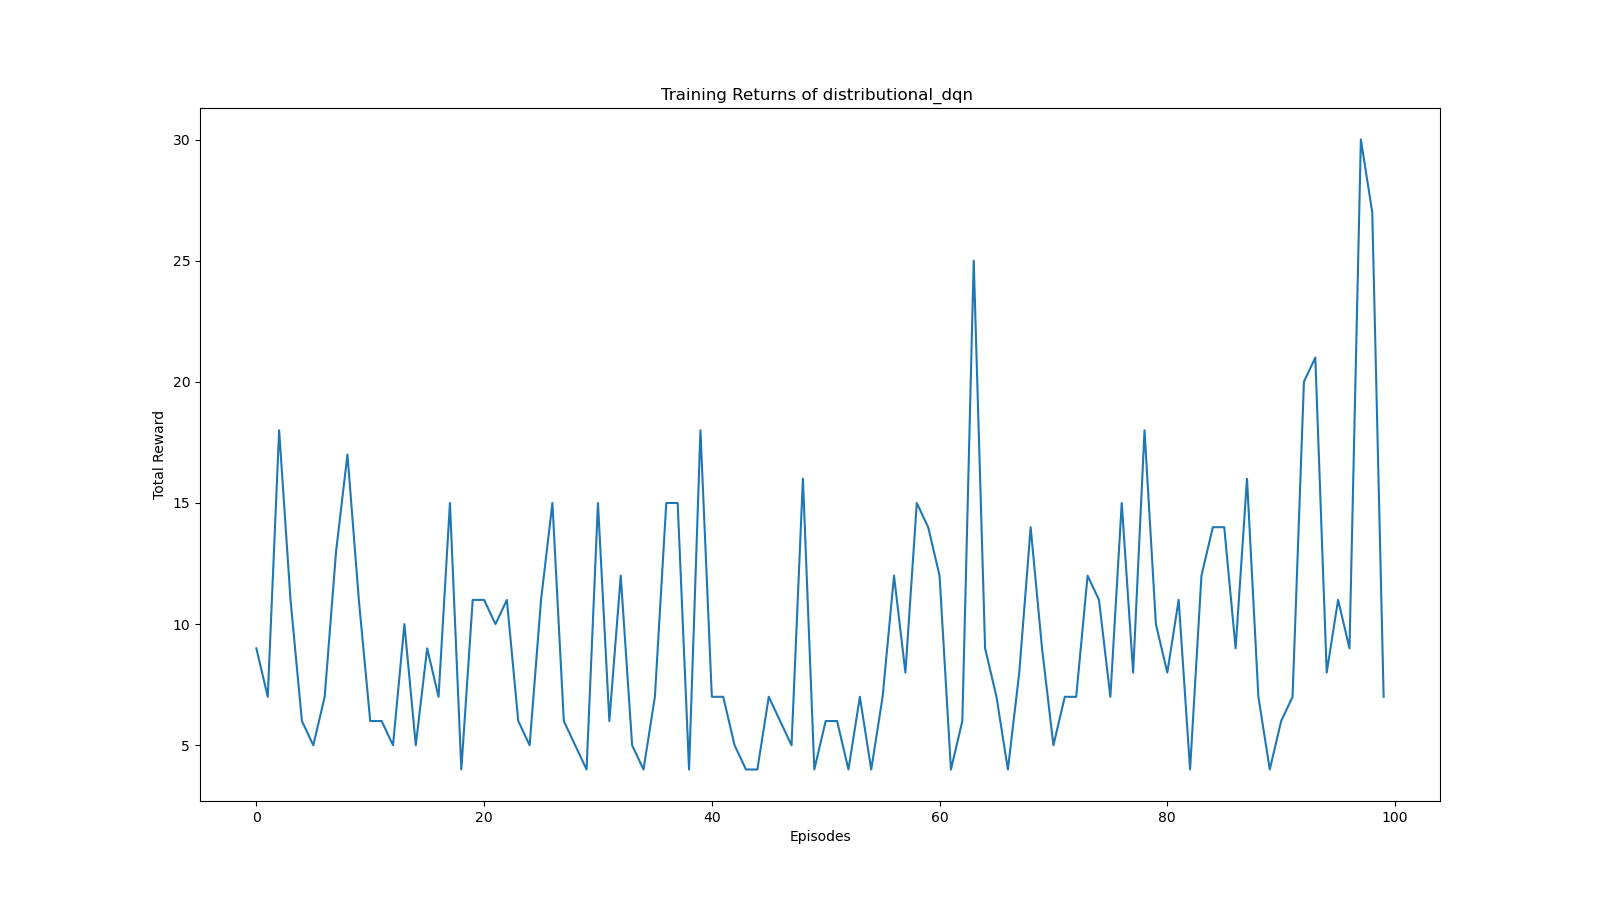
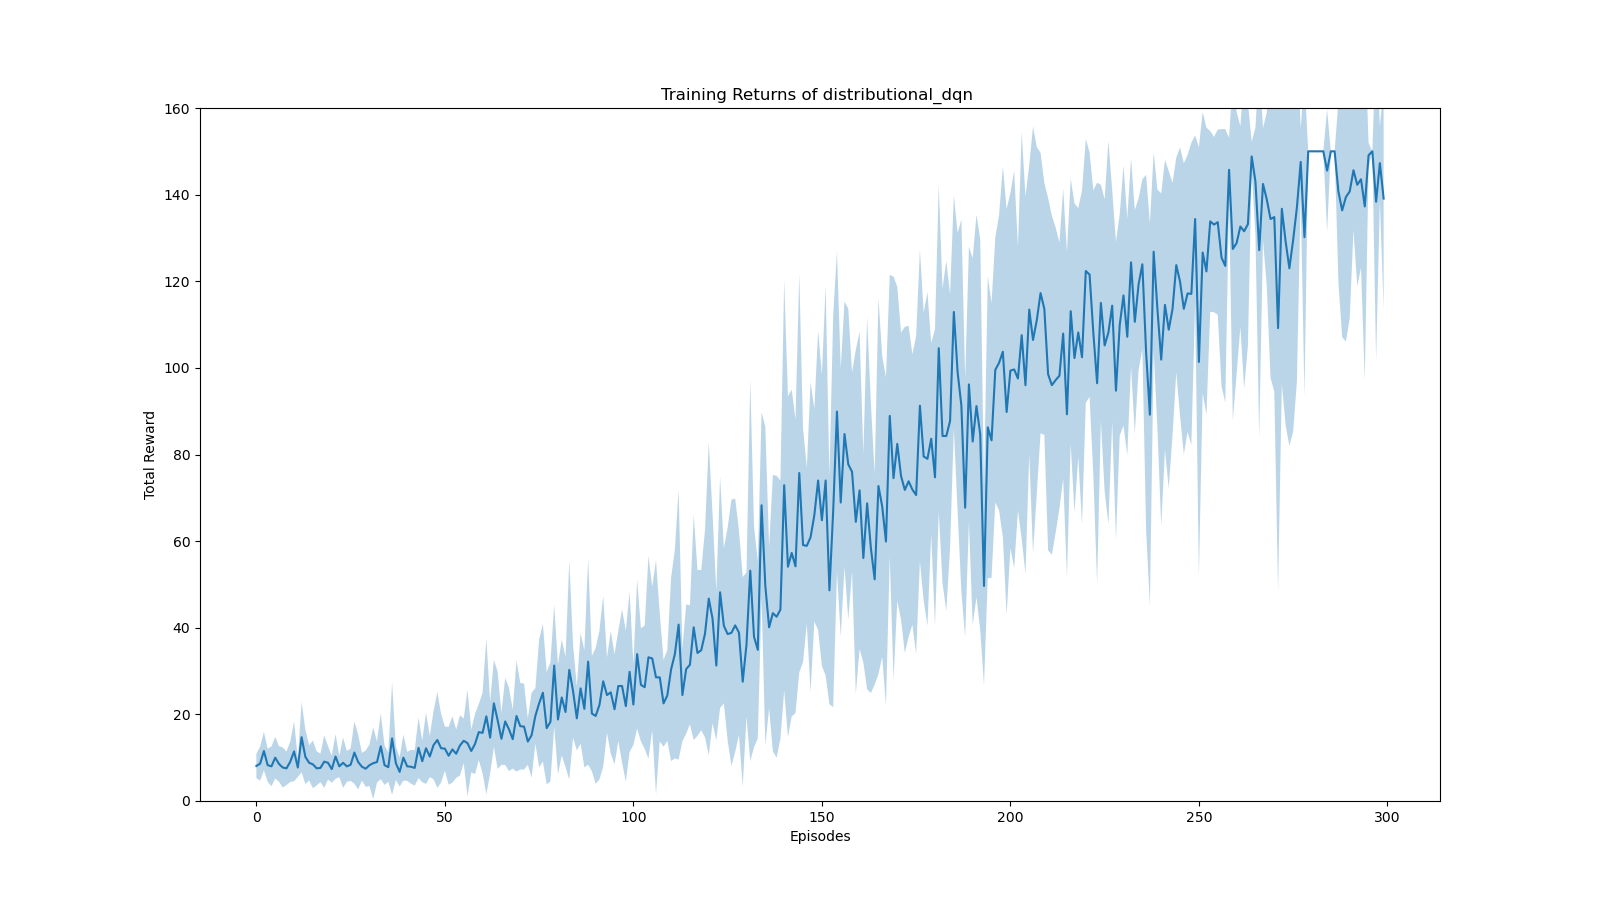
minor update on train

diff --git a/run_agent_cartpole.py b/run_agent_cartpole.py
@@ -18,7 +18,7 @@ from envs.cart_pole import CartPoleEnv
 import pickle
 
 def train_agent(agent, num_episodes=500):
-    max_steps = 200
+    max_steps = 150
     batch_size = 64
 
     returns = []
@@ -140,7 +140,8 @@ if __name__ == '__main__':
     action_dim = len(env.action_space)
     device = 'cuda:0' if torch.cuda.is_available() else 'cpu'
     print(f"Using device: {device}")
-    agents = ['dqn', 'ddqn', 'multistep_dqn', 'dueling_ddqn', 'distributional_dqn', 'noise_dqn', 'a3c', 'rainbow']
+    # agents = ['dqn', 'ddqn', 'multistep_dqn', 'dueling_ddqn', 'distributional_dqn', 'noise_dqn', 'a3c', 'rainbow']
+    agents = ['noise_dqn']
     results = {}
     for agent_name in agents:
         print(agent_name)
@@ -150,25 +151,27 @@ if __name__ == '__main__':
             print(SEED)
             np.random.seed(SEED)
             if agent_name == "dqn":
-                agent = DQNAgent(state_dim=state_dim, action_dim=action_dim, device=device)
+                agent = DQNAgent(state_dim=state_dim, action_dim=action_dim, epsilon_decay=0.99, device=device)
             elif agent_name == "ddqn":
-                agent = DoubleDQNAgent(state_dim=state_dim, action_dim=action_dim, device=device)
+                agent = DoubleDQNAgent(state_dim=state_dim, action_dim=action_dim, epsilon_decay=0.99, device=device)
             elif agent_name == "dueling_ddqn":
-                agent = DuelingDDQNAgent(state_dim=state_dim, action_dim=action_dim, device=device)
+                agent = DuelingDDQNAgent(state_dim=state_dim, action_dim=action_dim, epsilon_decay=0.99, device=device)
             elif agent_name == "distributional_dqn":
-                agent = DistributionalDQNAgent(state_dim=state_dim, action_dim=action_dim, device=device)
+                agent = DistributionalDQNAgent(state_dim=state_dim, action_dim=action_dim, v_min=0., v_max=150., epsilon_decay=0.99, device=device)
             elif agent_name == "noise_dqn":
                 agent = NoiseDQNAgent(state_dim=state_dim, action_dim=action_dim, device=device)
             elif agent_name == "a3c":
                 agent = A3CAgent(state_dim=state_dim, action_dim=action_dim, device=device)
             elif agent_name == "rainbow":
-                agent = RainbowAgent(state_dim=state_dim, action_dim=action_dim, device=device)
+                agent = RainbowAgent(state_dim=state_dim, action_dim=action_dim, v_min=0., v_max=50., n_step=3, device=device)
             elif agent_name == "multistep_dqn":
                 agent = MultiStepDQNAgent(state_dim=state_dim, action_dim=action_dim, n_step=3, device=device)
+            elif agent_name == "prioritized_ddqn":
+                agent = PrioritizedDoubleDQNAgent(state_dim=state_dim, action_dim=action_dim, epsilon_decay=0.99, device=device)
 
             # Execute based on parameters
             if args.train:
-                steps, returns = train_agent(agent, num_episodes=1000)
+                steps, returns = train_agent(agent, num_episodes=300)
                 seeds_returns[SEED] = (steps, returns)
 
             if args.test:
@@ -184,14 +187,15 @@ if __name__ == '__main__':
         plt.xlabel("Episodes")
         plt.ylabel("Total Reward")
         plt.fill_between(steps, mean_return - std_return, mean_return + std_return, alpha=0.3)
-        plt.ylim(0, 210)
+        plt.ylim(0, 160)
         plt.savefig(f"figures/{args.agent}-cartpole.png")
         # plt.show()
+        with open(f'results/{agent_name}.pkl', 'wb') as f:
+            pickle.dump(results, f)
 
     # Save the trained model parameters
     # torch.save(agent.q_network.state_dict(), 'dqn_model.pth')
     # print("Model parameters saved to dqn_model.pth")
-    with open('results/results.pkl', 'wb') as f:
-        pickle.dump(results, f)
+    
 
     

diff --git a/agents/prioritized_ddqn.py b/agents/prioritized_ddqn.py
@@ -103,8 +103,8 @@ class PrioritizedReplayBuffer:
 class PrioritizedDoubleDQNAgent(DoubleDQNAgent):
     def __init__(self, state_dim, action_dim, gamma=0.9, lr=0.001,
                  epsilon=1.0, epsilon_min=0.01, epsilon_decay=0.995,
-                 buffer_size=2000, alpha=0.6, beta_start=0.4, beta_frames=100000):
-        super().__init__(state_dim, action_dim, gamma, lr, epsilon, epsilon_min, epsilon_decay)
+                 buffer_size=2000, alpha=0.6, beta_start=0.4, beta_frames=100000, device='cpu'):
+        super().__init__(state_dim, action_dim, gamma, lr, epsilon, epsilon_min, epsilon_decay, device)
         self.replay_buffer = PrioritizedReplayBuffer(buffer_size, alpha, beta_start, beta_frames)
 
     def store_experience(self, state, action, reward, next_state, done):
@@ -115,12 +115,12 @@ class PrioritizedDoubleDQNAgent(DoubleDQNAgent):
             return
 
         states, actions, rewards, next_states, dones, idxs, is_weights = self.replay_buffer.sample(batch_size)
-        states = torch.FloatTensor(states)
-        actions = torch.LongTensor(actions).unsqueeze(1)
-        rewards = torch.FloatTensor(rewards).unsqueeze(1)
-        next_states = torch.FloatTensor(next_states)
-        dones = torch.FloatTensor(dones).unsqueeze(1)
-        is_weights = torch.FloatTensor(is_weights).unsqueeze(1)
+        states = torch.FloatTensor(states).to(self.device)
+        actions = torch.LongTensor(actions).unsqueeze(1).to(self.device)
+        rewards = torch.FloatTensor(rewards).unsqueeze(1).to(self.device)
+        next_states = torch.FloatTensor(next_states).to(self.device)
+        dones = torch.FloatTensor(dones).unsqueeze(1).to(self.device)
+        is_weights = torch.FloatTensor(is_weights).unsqueeze(1).to(self.device)
 
         q_values = self.q_network(states).gather(1, actions)
 

diff --git a/agents/distributional_dqn.py b/agents/distributional_dqn.py
@@ -112,7 +112,7 @@ def project_distribution_vec(next_dist, rewards, dones, gamma, support, v_min, v
 class DistributionalDQNAgent(DQNAgent):
     def __init__(self, state_dim, action_dim, gamma=0.99, lr=0.0001,
                  epsilon=1.0, epsilon_min=0.05, epsilon_decay=0.995,
-                 num_atoms=51, v_min=-50, v_max=50.0, device='cpu'):
+                 num_atoms=51, v_min=0, v_max=50.0, device='cpu'):
         super().__init__(state_dim, action_dim, gamma, lr, epsilon, epsilon_min, epsilon_decay, device)
         self.num_atoms = num_atoms
         self.v_min = v_min

diff --git a/agents/rainbow.py b/agents/rainbow.py
@@ -19,7 +19,7 @@ from collections import deque
 
 # Noisy linear layer for Noisy DQN
 class NoisyLinear(nn.Module):
-    def __init__(self, in_features, out_features, sigma_init=0.017):
+    def __init__(self, in_features, out_features, sigma_init=0.1):
         super(NoisyLinear, self).__init__()
         self.in_features = in_features
         self.out_features = out_features

diff --git a/agents/noisy_dqn.py b/agents/noisy_dqn.py
@@ -10,7 +10,7 @@ import numpy as np
 # from collections import deque
 
 class NoisyLinear(nn.Module):
-    def __init__(self, in_features, out_features, sigma_init=0.1):
+    def __init__(self, in_features, out_features, sigma_init=0.017):
         super(NoisyLinear, self).__init__()
         self.in_features = in_features
         self.out_features = out_features
